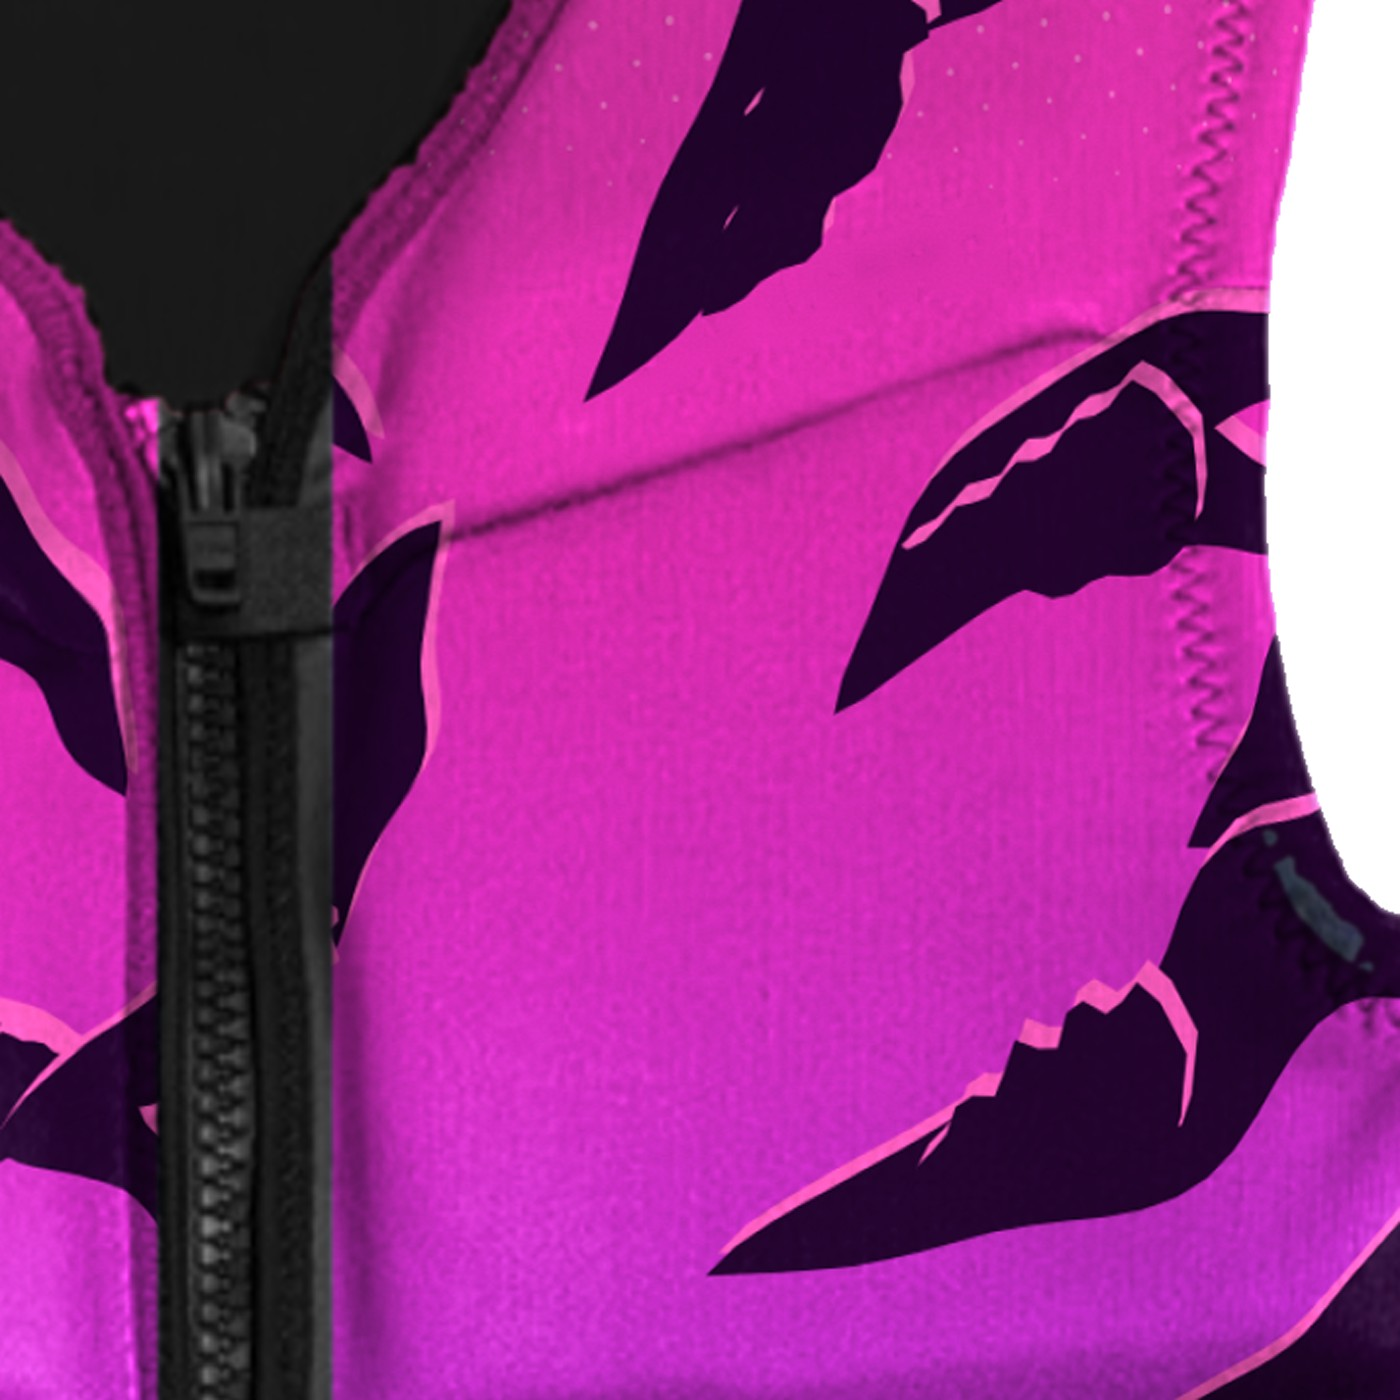
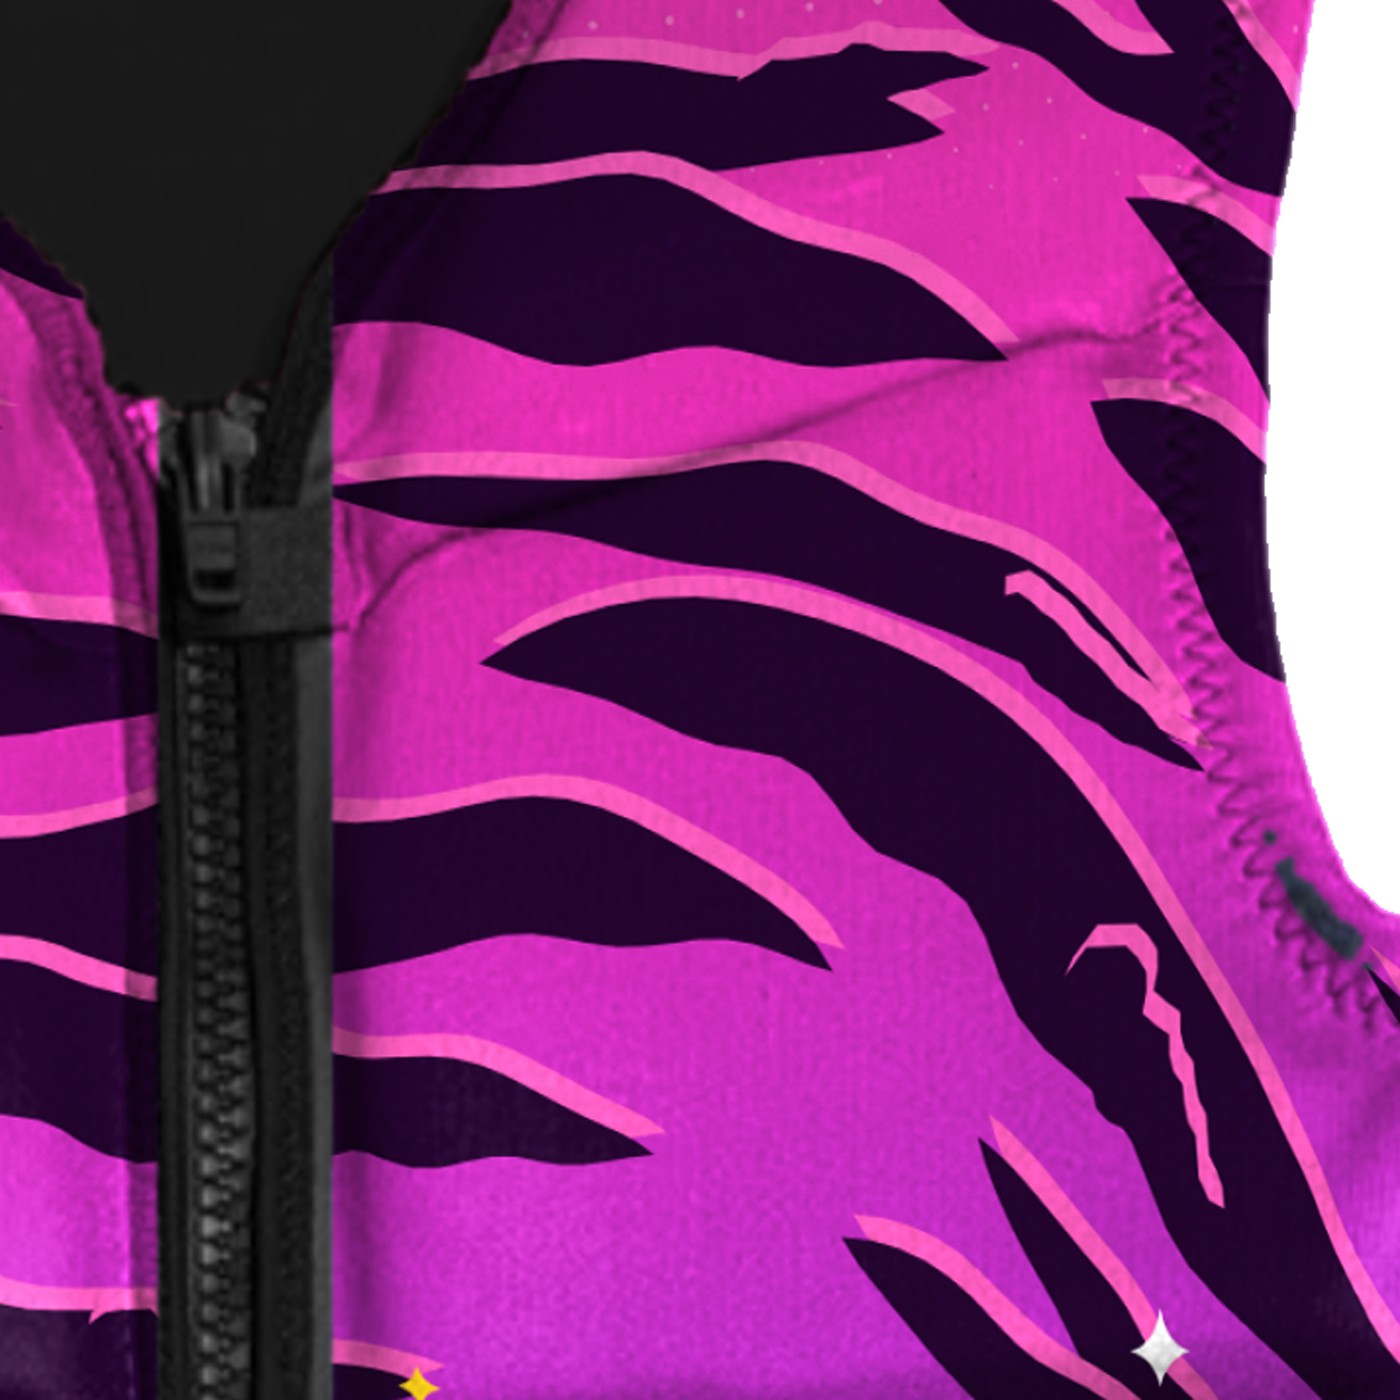
Tiger Fade: all-over diagonal tiger print
Claude-Session: https://claude.ai/code/session_01Fy5H5rMUZMXc2kKTw5zMks

diff --git a/config.js b/config.js
@@ -2,7 +2,7 @@
 // The logo artwork is in /brand (swap those SVG/PNG files if the name changes).
 window.SITE = {
   // Bump this whenever you replace a vest image (same filename) so browsers fetch the new one
-  imgVersion: 8,
+  imgVersion: 9,
 
   brand: {
     name: "Stinger",
